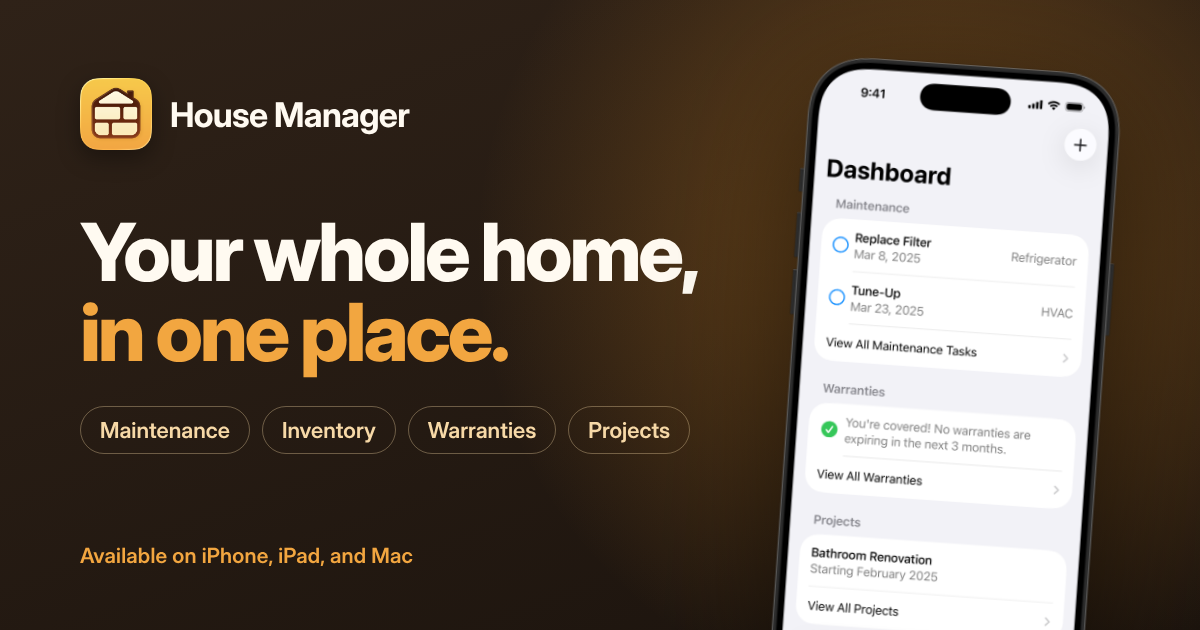
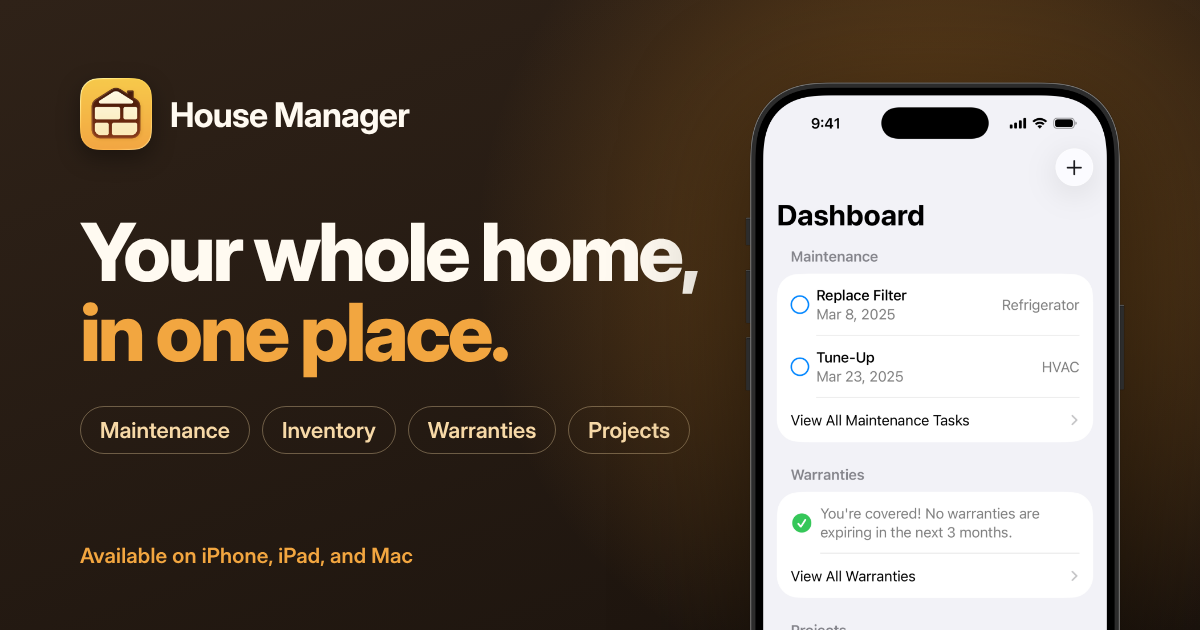
Straighten and enlarge the phone on the social card
Claude-Session: https://claude.ai/code/session_018J1dYG1zLQEgBuLohHLrtV

Changed region(s): [[0.6167, 0.0905, 0.9558, 1.0]]

diff --git a/design/social-card/social-card.html b/design/social-card/social-card.html
@@ -41,7 +41,7 @@
       ul { display: flex; flex-wrap: wrap; gap: 12px; width: 660px; margin-top: 34px; padding: 0; list-style: none; }
       li { padding: 10px 19px; border: 1.5px solid rgb(247 217 167 / 35%); border-radius: 999px; font-size: 22px; font-weight: 600; color: var(--amber-light); }
       .platforms { position: absolute; left: 80px; bottom: 62px; font-size: 21px; font-weight: 600; letter-spacing: 0.01em; color: var(--amber-bright); }
-      .phone { position: absolute; right: 90px; top: 62px; width: 330px; transform: rotate(4deg); filter: drop-shadow(0 30px 60px rgb(0 0 0 / 55%)); }
+      .phone { position: absolute; right: 70px; top: 80px; width: 390px; filter: drop-shadow(0 30px 60px rgb(0 0 0 / 55%)); }
     </style>
   </head>
   <body>
